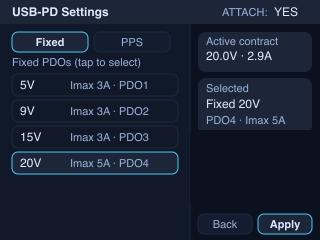
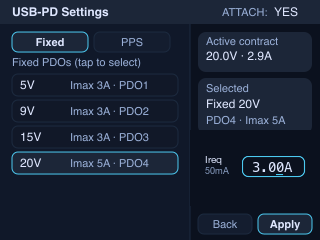
docs(plan): update #0016 PD settings touch editor mocks

Changed region(s): [[0.75, 0.6417, 0.9688, 0.7583], [0.625, 0.6417, 0.7188, 0.7292]]

diff --git a/docs/plan/0016:pd-settings-touch-value-editor/PLAN.md b/docs/plan/0016:pd-settings-touch-value-editor/PLAN.md
@@ -72,14 +72,19 @@
 
 当前缺口：主人用于标注比例的参考图（例如 `codex-clipboard-Wyjbq8.png`）未在工作区出现，无法反推最终像素坐标；在拿到标注图后，将把 divider/content/padding 坐标补齐并冻结到此处。
 
-### 7.2 目标值显示
+### 7.2 目标值区域效果图（Mocks）
 
-- **阶段 0（已冻结）**：在绘制新的触屏目标值界面前，先把“右下角电压/电流设置区域”彻底清空，避免旧控件干扰新的布局讨论。
-  - 本计划的 3 张效果图中，右下角必须**不出现**任何电压/电流设置控件（包括 `Vreq/Ireq` 标签、步长、输入框、单位、`+/-` 按钮、编辑下划线等）。
+- **阶段 0（已冻结）**：先去掉旧的 `Vreq/Ireq` 行与 `+/-` 小按钮，并用“空白卡片”标出后续可用区域，避免旧控件干扰布局讨论。
+  - 适用图片：`pd-settings-pps-touch-available-area.png`
   - 允许保留：右栏的 `Active contract` / `Selected` 信息卡片，以及底部 `Back` / `Apply` 按钮。
-  - （像素契约）清空区域：`x=190..319`，`y=130..205`（精确覆盖旧的 `Vreq/Ireq` 行与 `+/-` 控件，避免裁切 `Selected` 卡片与底部按钮）。
-  - 清空区域的背景应与页面背景一致（以 `#0B111E` 为基准），不得出现残留控件边缘或高亮描边。
+  - （像素契约）清空区域：`x=190..319`，`y=130..205`（覆盖旧的 `Vreq/Ireq` 行与 `+/-` 控件；不得裁切 `Selected` 卡片与底部按钮）。
   - 禁止像素污染：mock 图中不得出现调试标注残留（例如红色像素/红框）。
+
+- **阶段 1（待冻结）**：触屏目标值编辑的 3 张效果图应体现“标签两行 + 大点击目标值 + 焦点/编辑位高亮”的最小口径。
+  - 适用图片：`pd-settings-pps-touch-vreq.png` / `pd-settings-pps-touch-ireq.png` / `pd-settings-fixed-touch-ireq.png`
+  - 必须移除 `+/-` 小按钮；目标值以大点击区域呈现（等宽数字）。
+  - `Ireq` 显示为 `xx.xxA`（2 位小数；内部单位仍可保持 mA）。
+  - 焦点语义：当前字段用外框高亮；当前编辑位用下划线（或等价的可视化标记，最终由开放问题 #4 冻结）。
 
 ### 7.3 触屏与编码器交互（可测试最小口径）
 

diff --git a/docs/plan/README.md b/docs/plan/README.md
@@ -69,4 +69,4 @@
 | 0013 | USB‑PD 设置面板：Fixed PDO / PPS APDO（UI + UART 协议 + HTTP API） | 已完成 | `0013:usb-pd-pps-and-fixed-settings/PLAN.md` | 2026-01-12 | HIL: IP6557 + e‑marker |
 | 0014 | Web：USB‑PD 设置页（对接 /api/v1/pd） | 已完成 | `0014:web-usb-pd-settings/PLAN.md` | 2026-01-13 | HIL: PPS OK (9V@500mA) |
 | 0015 | 数字板：屏幕自动调暗与熄屏（背光省电） | 已完成 | `0015:auto-screen-dim-off/PLAN.md` | 2026-01-13 | HIL: verify 2min/5min + wake |
-| 0016 | PD 设置：触屏友好的目标值编辑（无 +/-；点击/滑动选位；旋钮调节） | 待设计 | `0016:pd-settings-touch-value-editor/PLAN.md` | 2026-01-14 | - |
+| 0016 | PD 设置：触屏友好的目标值编辑（无 +/-；点击/滑动选位；旋钮调节） | 待设计 | `0016:pd-settings-touch-value-editor/PLAN.md` | 2026-01-15 | - |
